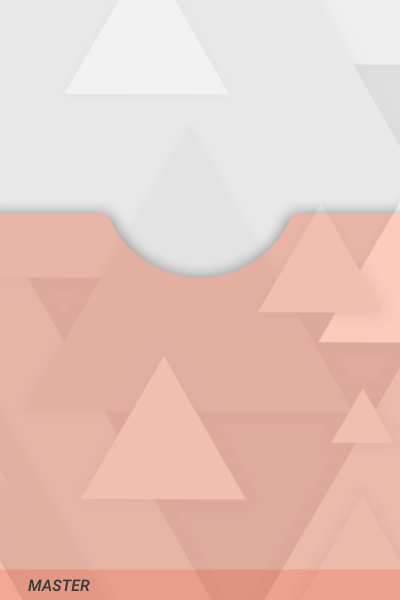
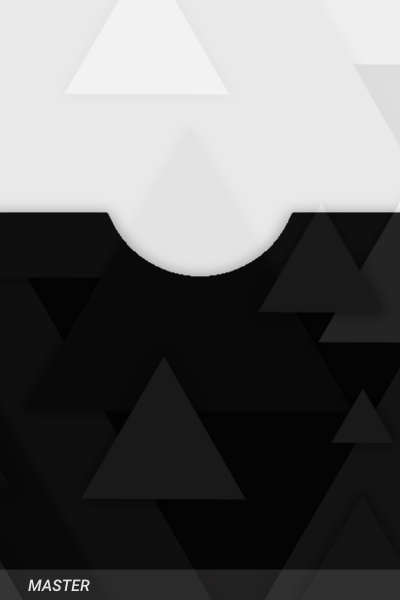
master tier is black-themed now instead of copper

diff --git a/image/jimp.ts b/image/jimp.ts
@@ -12,6 +12,7 @@ export async function createPlayerCard(player, claimCount) {
     } catch {}
 
     // create all text images in parallel using text2png
+    const rank = player.statistics.global_rank;
     const writePromises = [];
     writePromises.push(
         fs.promises.writeFile(
@@ -20,7 +21,7 @@ export async function createPlayerCard(player, claimCount) {
                 font: '36px Akshar',
                 localFontName: 'Akshar',
                 localFontPath: 'fonts/Akshar-VariableFont_wght.ttf',
-                color: '#383838',
+                color: rank > 50 ? '#383838' : '#eeeeee',
                 textAlign: 'center',
                 lineSpacing: 10,
                 padding: 20,
@@ -34,7 +35,7 @@ export async function createPlayerCard(player, claimCount) {
                 font: '24px Akshar',
                 localFontName: 'Akshar',
                 localFontPath: 'fonts/Akshar-VariableFont_wght.ttf',
-                color: '#4f4f4f',
+                color: rank > 50 ? '#4f4f4f' : '#afafaf',
                 textAlign: 'left',
                 lineSpacing: 10,
                 padding: 20,
@@ -54,7 +55,7 @@ export async function createPlayerCard(player, claimCount) {
                     font: '24px Akshar',
                     localFontName: 'Akshar',
                     localFontPath: 'fonts/Akshar-VariableFont_wght.ttf',
-                    color: '#4f4f4f',
+                    color: rank > 50 ? '#4f4f4f' : '#afafaf',
                     textAlign: 'right',
                     lineSpacing: 16,
                     padding: 20,
@@ -71,7 +72,7 @@ export async function createPlayerCard(player, claimCount) {
                     font: '24px Akshar',
                     localFontName: 'Akshar',
                     localFontPath: 'fonts/Akshar-VariableFont_wght.ttf',
-                    color: '#414141',
+                    color: rank > 50 ? '#414141' : '#cfcfcf',
                     textAlign: 'center',
                     lineSpacing: 16,
                     padding: 20,
@@ -84,11 +85,11 @@ export async function createPlayerCard(player, claimCount) {
 
     // base image
     const readPromises = [];
-    const rank = player.statistics.global_rank;
+
     const followers = player.follower_count;
     const baseImageFile = rank
         ? rank < 50
-            ? 'image/osuCard-master.png'
+            ? 'image/osuCard-master-2.png'
             : rank < 300
             ? 'image/osuCard-legendary.png'
             : rank < 1000
@@ -97,7 +98,7 @@ export async function createPlayerCard(player, claimCount) {
             ? 'image/osuCard-uncommon.png'
             : 'image/osuCard-common.png'
         : followers > 4000
-        ? 'image/osuCard-master.png'
+        ? 'image/osuCard-master-2.png'
         : followers > 1750
         ? 'image/osuCard-legendary.png'
         : followers > 750
